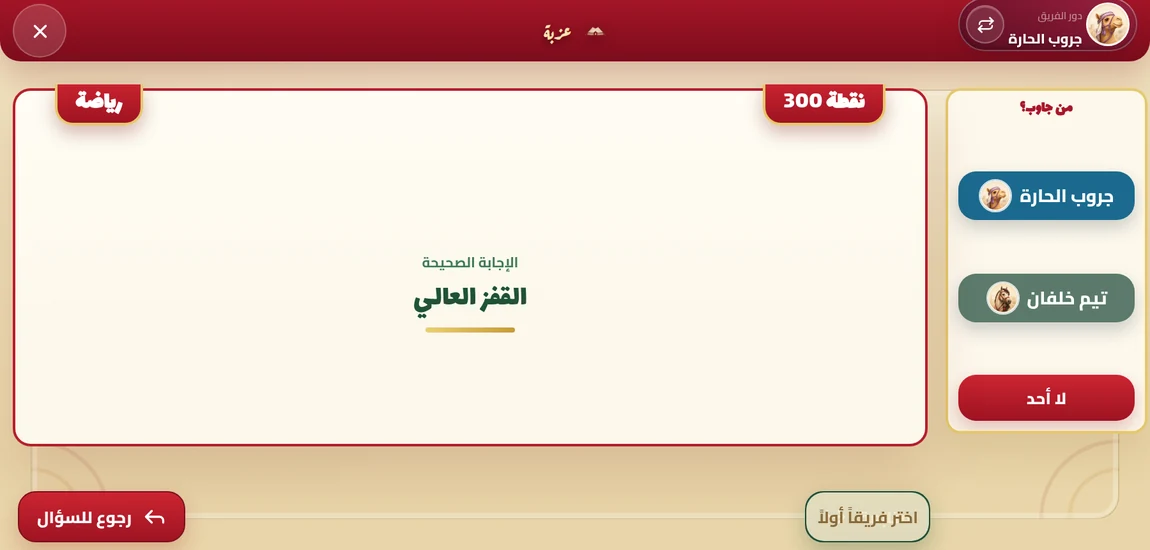
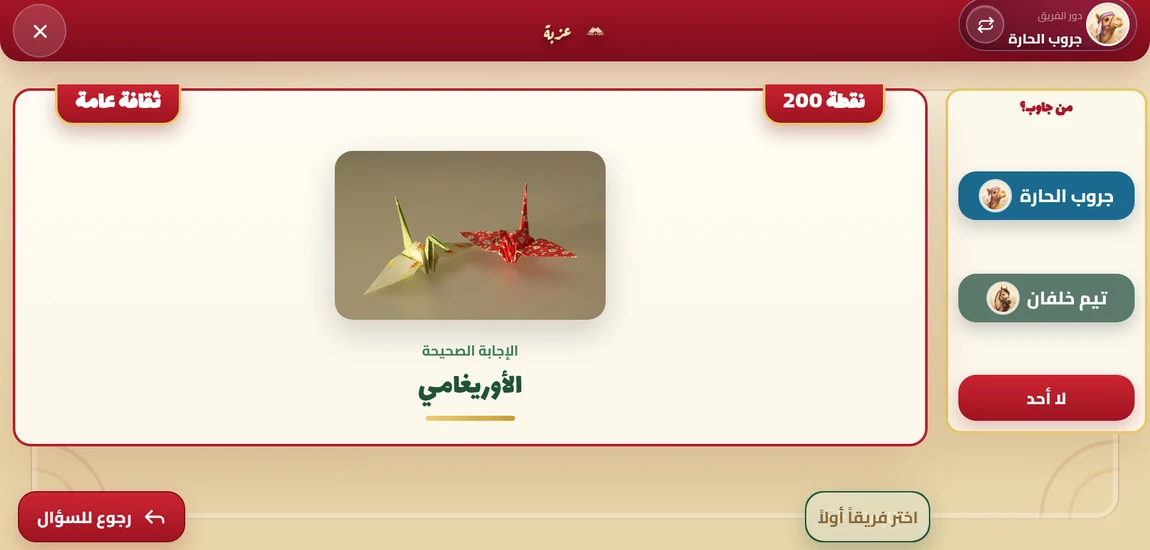
Shots: every question card now carries a picture
"replace all of them with questions that have pictures only."

The capture no longer clicks board cells and hopes. It picks a question that
has an image and calls `openQuestion` — the same function a cell click calls,
so it is the real screen, just not left to chance. Clicking was never going to
work: the board draws ONE question per tier at random out of a bank of a hundred
and something, only a handful of which carry media, so six retries was a
lottery with poor odds. Scenes now open ثقافة عامة 200, كافيهات ومطاعم 300 and
أفلام أجنبية 400, each with its photo, and the answer cards inherit them.

⚠ It ABORTS if a scene has no pictured question. Shipping a text-only card
quietly is how the QR screen survived a release.

⚠ The in-memory question uses `q`/`a`, NOT `question`/`answer` — the shape the
parent doc stores and the game keeps. The first version of the picker tested
`x.question`, matched nothing, and reported every category as pictureless. Same
field-name trap that made the duplicate scanner read a catalogue of blanks.

tests/gameshots.mjs checks the FILES independently, since the capture is where
the mistake would be made: a text-only card is a wall of cream with a line of
type, a photographed one has a block of colour, and the spread of colour across
the centre separates them. Calibrated against real shots rather than guessed —
the «قديمك نديمك» card that shipped scores 30.8, the pictured ones 54–81, so
[…]

Changed region(s): [[0.2739, 0.2473, 0.5478, 0.6491], [0.3652, 0.68, 0.4565, 0.7727], [0.0609, 0.1545, 0.1826, 0.2473]]

diff --git a/preview/index.html b/preview/index.html
@@ -751,11 +751,11 @@ footer{border-top:1px solid var(--rule); padding-block:52px 40px; margin-top:cla
         <div class="device rv" data-d="2" id="device"
              aria-roledescription="عرض متعاقب لشاشات اللعبة">
           <div class="screen">
-            <img src="shots/board-1.webp?v60725edc" data-shot="board" alt="لوحة اللعب — ست فئات وخمس مستويات نقاط"
+            <img src="shots/board-1.webp?vf4ae417c" data-shot="board" alt="لوحة اللعب — ست فئات وخمس مستويات نقاط"
                  width="1150" height="550" fetchpriority="high" decoding="async" class="on">
-            <img src="shots/question-1.webp?v60725edc" data-shot="question" alt="شاشة السؤال مع المؤقّت والنقاط"
+            <img src="shots/question-1.webp?vf4ae417c" data-shot="question" alt="شاشة السؤال مع المؤقّت والنقاط"
                  width="1150" height="550" decoding="async">
-            <img src="shots/answer-1.webp?v60725edc" data-shot="answer" alt="شاشة الإجابة وأزرار «من جاوب؟»"
+            <img src="shots/answer-1.webp?vf4ae417c" data-shot="answer" alt="شاشة الإجابة وأزرار «من جاوب؟»"
                  width="1150" height="550" decoding="async">
           </div>
         </div>
@@ -851,20 +851,20 @@ footer{border-top:1px solid var(--rule); padding-block:52px 40px; margin-top:cla
     <div class="steps">
       <div>
         <div class="shot tall rv">
-          <img src="shots/picker-2.webp?v60725edc" data-shot="picker" alt="شاشة اختيار الفئات في اللعبة" loading="lazy" decoding="async" width="620" height="1354">
+          <img src="shots/picker-2.webp?vf4ae417c" data-shot="picker" alt="شاشة اختيار الفئات في اللعبة" loading="lazy" decoding="async" width="620" height="1354">
         </div>
         <div class="step-cap"><b>١</b> اختاروا فئاتكم من ٤٠ فئة، وسمّوا الفرق</div>
       </div>
       <div class="wide-col">
         <div>
           <div class="shot rv" data-d="1">
-            <img src="shots/board-2.webp?v60725edc" data-shot="board" alt="لوحة اللعب — أربع فئات وخمس مستويات نقاط" loading="lazy" decoding="async" width="1150" height="550">
+            <img src="shots/board-2.webp?vf4ae417c" data-shot="board" alt="لوحة اللعب — أربع فئات وخمس مستويات نقاط" loading="lazy" decoding="async" width="1150" height="550">
           </div>
           <div class="step-cap"><b>٢</b> اختاروا خانة من اللوحة — كل ما غلت، صعبت</div>
         </div>
         <div>
           <div class="shot rv" data-d="2">
-            <img src="shots/answer-2.webp?v60725edc" data-shot="answer" alt="شاشة الإجابة — الصورة والإجابة الصحيحة وأزرار «من جاوب؟»" loading="lazy" decoding="async" width="1150" height="550">
+            <img src="shots/answer-2.webp?vf4ae417c" data-shot="answer" alt="شاشة الإجابة — الصورة والإجابة الصحيحة وأزرار «من جاوب؟»" loading="lazy" decoding="async" width="1150" height="550">
           </div>
           <div class="step-cap"><b>٣</b> اضغطوا «من جاوب؟» — والنقاط تُحتسب تلقائياً</div>
         </div>
@@ -1054,7 +1054,7 @@ footer{border-top:1px solid var(--rule); padding-block:52px 40px; margin-top:cla
      a browser that already has them shows the old pictures for as long as its
      cache says to — the shots got replaced, the site kept serving the previous
      ones, and it looked like the change had not deployed. It had. */
-  const SHOT_V = "v60725edc";
+  const SHOT_V = "vf4ae417c";
   const SHOT_SET = (() => {
     try {
       const n = (parseInt(localStorage.getItem("izzbah-shot-set") || "0", 10) + 1) % SHOT_SETS;
